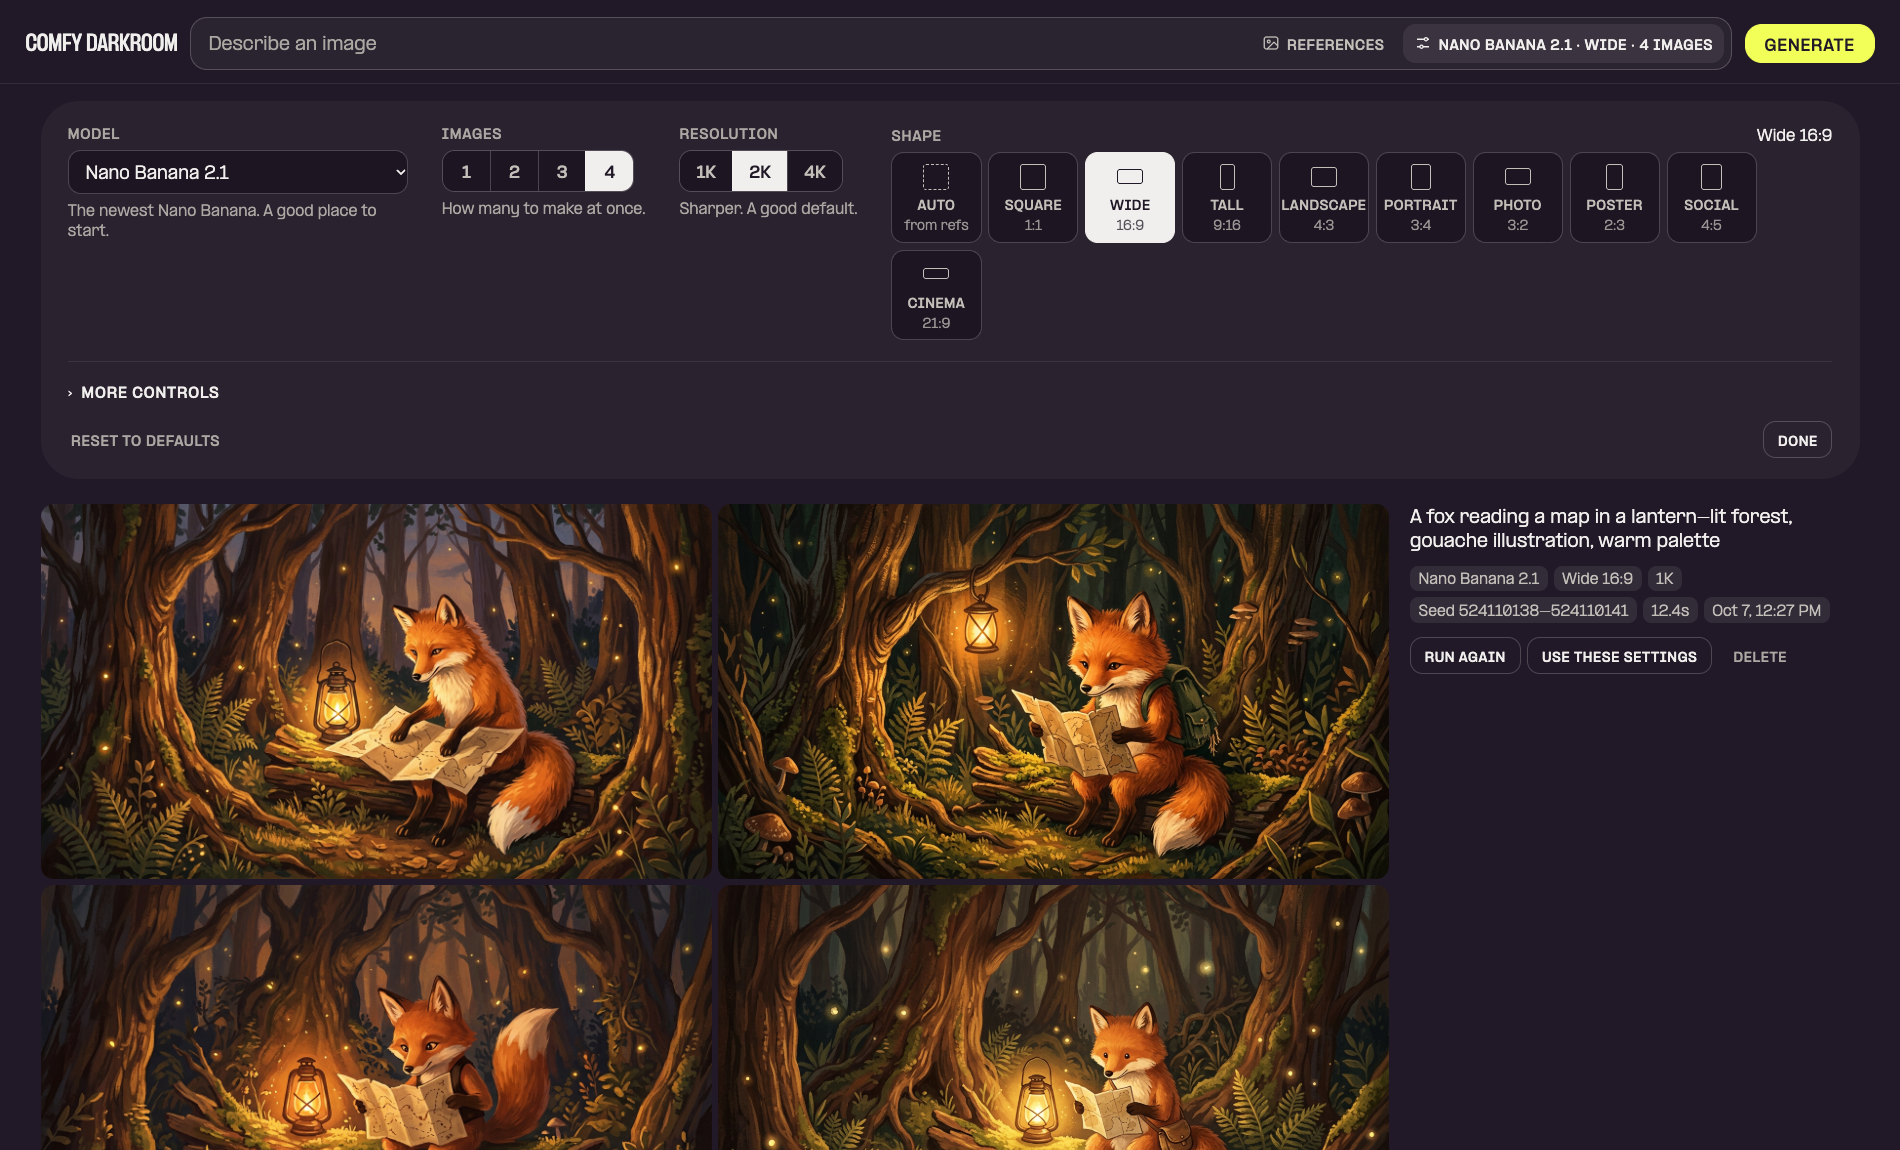
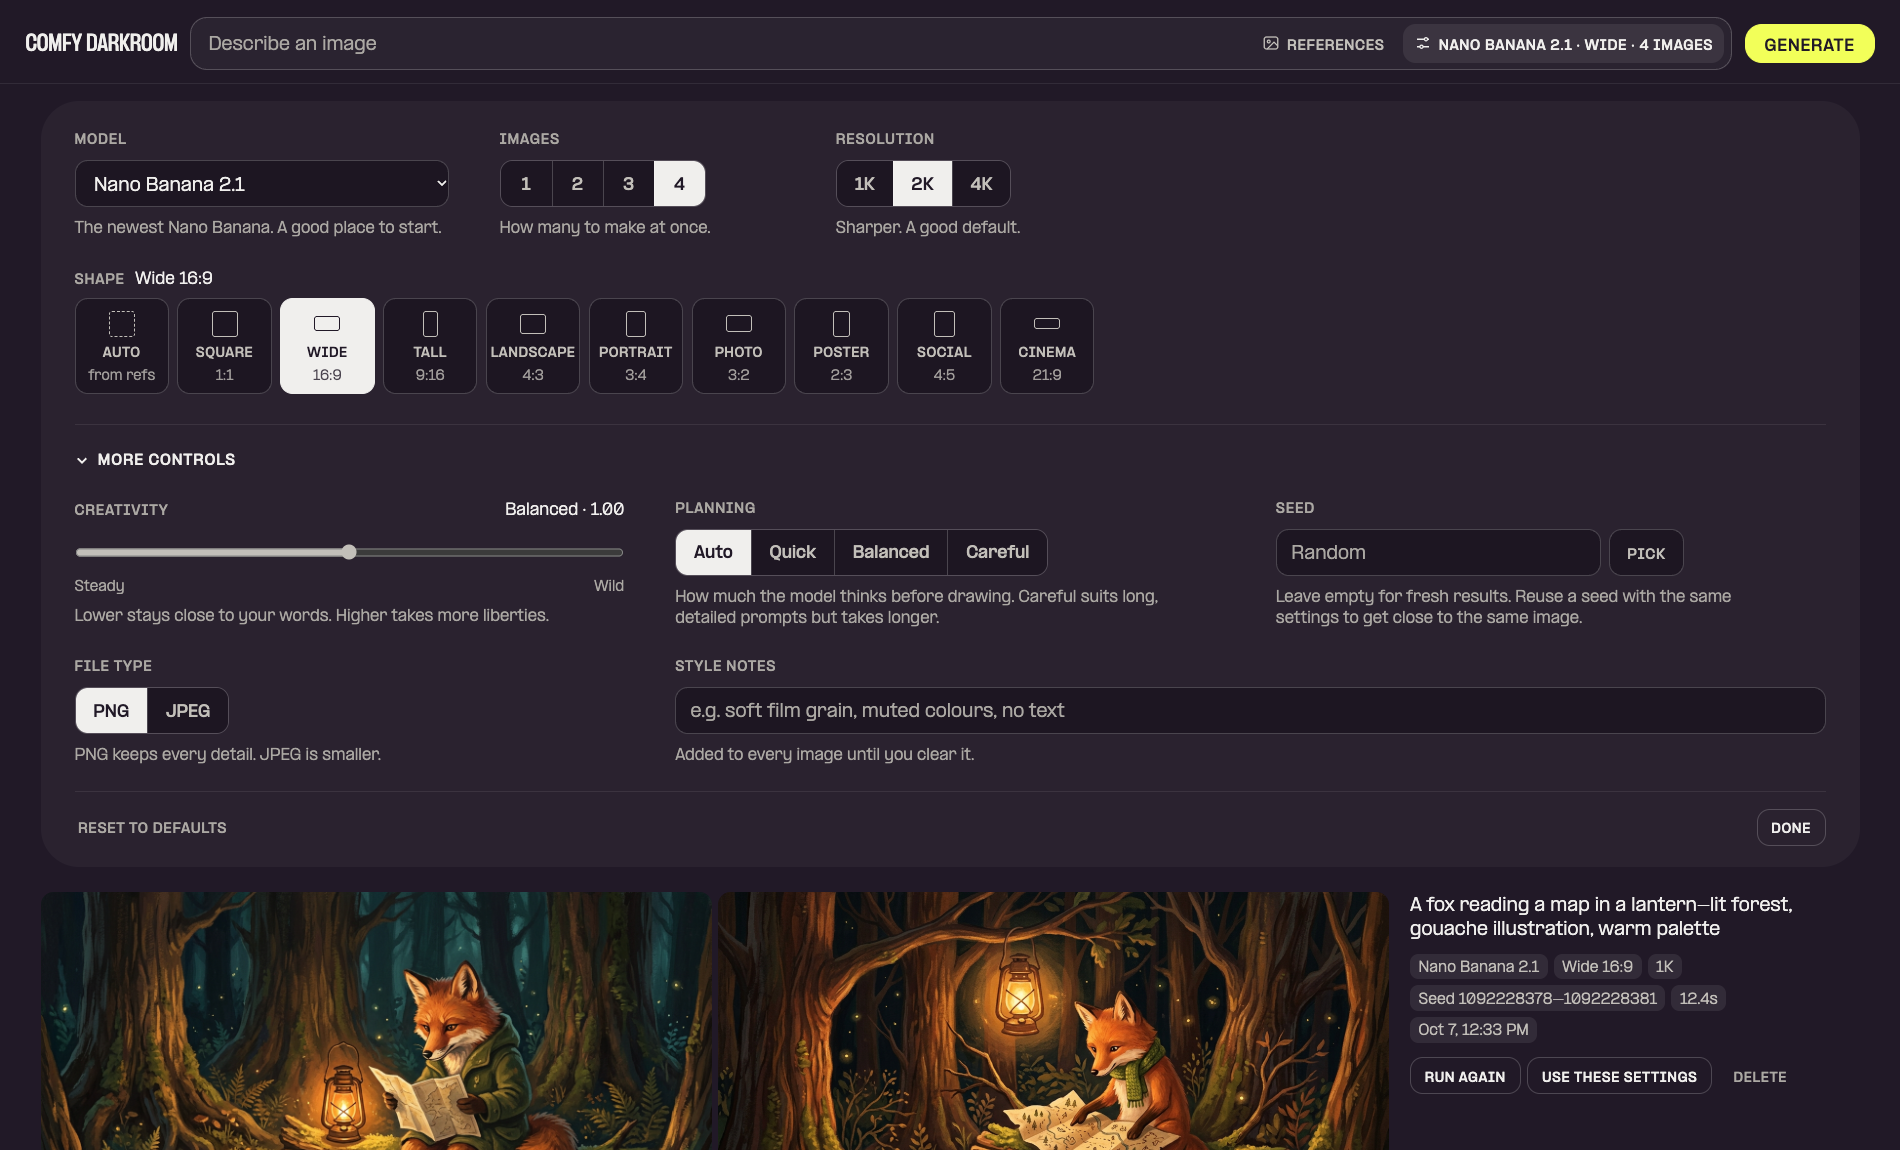
Settings panel spacing, responsive layout, screenshot script (#2)
- Panel uses two grids: Model / Images / Resolution, then full-width Shape;
  More controls is an even 3-column grid
- One control height (2.75rem), one label line, consistent hint spacing
- All ten shapes on one line on desktop, 5x2 on tablet, a swipe row on phone
- Style notes is a single-line field (placeholder was clipped)
- Phone: full-width segmented controls, prompt on its own line
- scripts/screenshots.mjs regenerates docs/*.png; README explains how

diff --git a/index.html b/index.html
@@ -54,47 +54,62 @@ body.drag::after { content:"Drop to add as reference images"; position:fixed; in
 /* ---------- settings panel ---------- */
 .panel { max-width:110rem; margin:1rem auto 0; padding:0 1.5rem; display:none; }
 .panel.open { display:block; }
-.panel-in { background:var(--t4); border-radius:2.25rem; padding:1.4rem 1.6rem 1.2rem; }
-.fields { display:flex; flex-wrap:wrap; gap:1.25rem 2rem; align-items:flex-start; }
+.panel-in { background:var(--t4); border-radius:2.25rem; padding:1.75rem 2rem 1.25rem; }
+/* One grid per section so labels, controls and hints line up across columns. */
+.basics { display:grid; grid-template-columns:minmax(16rem,22rem) auto auto; justify-content:start; gap:1.75rem 3rem; align-items:start; }
+.basics .f-shape { grid-column:1 / -1; }
+.adv { display:grid; grid-template-columns:repeat(3, minmax(0, 1fr)); gap:1.75rem 3rem; align-items:start; margin-top:1.5rem; }
+.adv .f-notes { grid-column:span 2; }
+@media (max-width:1100px){ .basics { grid-template-columns:1fr 1fr; } .basics .f-model { grid-column:1 / -1; } .adv { grid-template-columns:1fr 1fr; } .adv .f-notes { grid-column:1 / -1; } }
 .field { min-width:0; }
-.field.f-model { flex:1 1 240px; max-width:340px; }
-.field.f-shape { flex:3 1 460px; }
-.field.f-wide { flex:2 1 320px; }
-.field.f-narrow { flex:1 1 200px; }
-label.k, .k { display:flex; justify-content:space-between; align-items:baseline; gap:.5rem; font-size:.75rem; font-weight:700; text-transform:uppercase; letter-spacing:.06em; color:var(--muted); margin-bottom:.45rem; }
-.k .val { color:var(--warm-white); font-weight:400; letter-spacing:0; text-transform:none; font-size:.85rem; }
-.help { font-size:.82rem; font-weight:400; color:var(--muted); line-height:1.4; margin-top:.45rem; max-width:34rem; }
-select,input[type=number],input[type=text],textarea.in { width:100%; background:var(--ink-soft); color:var(--warm-white); border:1px solid var(--t20); border-radius:.75rem; font:inherit; font-weight:400; font-size:.95rem; padding:.55rem .75rem; outline:none; }
-textarea.in { resize:vertical; min-height:2.6rem; line-height:1.4; }
-select:focus,input:focus,textarea.in:focus { border-color:var(--canvas); }
-input::placeholder,textarea.in::placeholder { color:var(--muted); }
+label.k, .k { display:flex; align-items:baseline; gap:.6rem; height:1.15rem; line-height:1.15rem; font-size:.75rem; font-weight:700; text-transform:uppercase; letter-spacing:.06em; color:var(--muted); margin-bottom:.6rem; }
+.k.split { justify-content:space-between; }
+.k .val { color:var(--warm-white); font-weight:400; letter-spacing:0; text-transform:none; font-size:.875rem; line-height:1.15rem; }
+.help { font-size:.85rem; font-weight:400; color:var(--muted); line-height:1.45; margin-top:.6rem; max-width:30rem; }
+select,input[type=number],input[type=text] { width:100%; height:2.75rem; background:var(--ink-soft); color:var(--warm-white); border:1px solid var(--t20); border-radius:.75rem; font:inherit; font-weight:400; font-size:1rem; padding:0 .85rem; outline:none; }
+select:focus,input:focus { border-color:var(--canvas); }
+input::placeholder { color:var(--muted); }
 .seg { display:inline-flex; border:1px solid var(--t20); border-radius:.75rem; overflow:hidden; }
-.seg button { background:var(--ink-soft); color:var(--canvas); border:0; padding:.55rem .95rem; cursor:pointer; font-weight:700; font-size:.875rem; min-width:2.8rem; }
+.seg button { height:calc(2.75rem - 2px); background:var(--ink-soft); color:var(--canvas); border:0; padding:0 1.05rem; cursor:pointer; font-weight:700; font-size:.9rem; min-width:3rem; }
 .seg button + button { border-left:1px solid var(--t20); }
 .seg button:hover:not(.on):not(:disabled) { background:var(--t8); color:var(--warm-white); }
 .seg button.on { background:var(--warm-white); color:var(--ink); }
 .seg button:disabled { opacity:.4; cursor:not-allowed; }
-.shapes { display:flex; flex-wrap:wrap; gap:.4rem; }
-.shape { display:flex; flex-direction:column; align-items:center; justify-content:flex-end; gap:.35rem; width:5.3rem; padding:.55rem .3rem .45rem; background:var(--ink-soft); border:1px solid var(--t20); border-radius:.75rem; color:var(--canvas); cursor:pointer; }
+/* Ten shapes on one line on desktop (10 x 5.4rem + gaps = 58.5rem); wraps evenly below that. */
+.shapes { display:grid; grid-template-columns:repeat(auto-fill, minmax(5.4rem, 1fr)); gap:.5rem; max-width:60rem; }
+.shape { display:flex; flex-direction:column; align-items:center; justify-content:flex-end; gap:.3rem; padding:.65rem .3rem .55rem; background:var(--ink-soft); border:1px solid var(--t20); border-radius:.75rem; color:var(--canvas); cursor:pointer; }
 .shape:hover:not(.on) { background:var(--t8); color:var(--warm-white); }
 .shape.on { background:var(--warm-white); color:var(--ink); border-color:var(--warm-white); }
 .shape .box { height:28px; display:flex; align-items:center; justify-content:center; }
 .shape i { display:block; border:1.5px solid currentColor; border-radius:3px; }
 .shape i.auto { border-style:dashed; }
-.shape .n { font-size:.72rem; font-weight:700; text-transform:uppercase; letter-spacing:.04em; }
-.shape .r { font-size:.72rem; font-weight:400; opacity:.75; margin-top:-.25rem; }
-.range { width:100%; accent-color:var(--canvas); margin:.2rem 0 0; }
-.ends { display:flex; justify-content:space-between; font-size:.75rem; font-weight:400; color:var(--muted); }
-.seedrow { display:flex; gap:.4rem; }
-.seedrow input { flex:1; }
-.more { margin-top:1.25rem; border-top:1px solid var(--t8); padding-top:1rem; }
-.more summary { list-style:none; cursor:pointer; display:inline-flex; align-items:center; gap:.5rem; font-size:.8rem; font-weight:700; text-transform:uppercase; letter-spacing:.06em; color:var(--warm-white); }
+.shape .n { font-size:.72rem; font-weight:700; text-transform:uppercase; letter-spacing:.04em; white-space:nowrap; }
+.shape .r { font-size:.75rem; font-weight:400; opacity:.8; }
+.range { width:100%; height:2.75rem; margin:0; accent-color:var(--canvas); }
+.ends { display:flex; justify-content:space-between; font-size:.78rem; font-weight:400; color:var(--muted); margin-top:-.35rem; }
+.seedrow { display:flex; gap:.5rem; max-width:24rem; }
+.seedrow input { flex:1; min-width:0; }
+.sidebtn { height:2.75rem; flex:none; padding:0 1rem; background:var(--ink-soft); border:1px solid var(--t20); border-radius:.75rem; color:var(--canvas); font-size:.75rem; font-weight:700; text-transform:uppercase; letter-spacing:.05em; cursor:pointer; }
+.sidebtn:hover { background:var(--t8); color:var(--warm-white); }
+.more { margin-top:1.75rem; border-top:1px solid var(--t8); padding-top:1.25rem; }
+.more summary { list-style:none; cursor:pointer; display:inline-flex; align-items:center; gap:.55rem; font-size:.8rem; font-weight:700; text-transform:uppercase; letter-spacing:.06em; color:var(--warm-white); padding:.25rem 0; }
 .more summary::-webkit-details-marker { display:none; }
-.more summary .chev { transition:transform .15s; display:inline-block; }
-.more[open] summary .chev { transform:rotate(90deg); }
-.more summary .sub { color:var(--muted); font-weight:400; letter-spacing:0; text-transform:none; font-size:.85rem; }
-.more .fields { margin-top:1.1rem; }
-.panel-foot { display:flex; justify-content:space-between; align-items:center; margin-top:1rem; }
+.more summary svg { width:14px; height:14px; transition:transform .15s; }
+.more[open] summary svg { transform:rotate(90deg); }
+.more summary .sub { color:var(--muted); font-weight:400; letter-spacing:0; text-transform:none; font-size:.875rem; }
+.panel-foot { display:flex; justify-content:space-between; align-items:center; margin-top:1.5rem; padding-top:1rem; border-top:1px solid var(--t8); }
+
+/* responsive panel overrides: keep after the base rules above */
+@media (max-width:1100px){ .shapes { grid-template-columns:repeat(5, minmax(0, 1fr)); max-width:34rem; } }
+@media (max-width:640px){
+  .basics, .adv { grid-template-columns:1fr; } .panel-in { padding:1.25rem 1.1rem 1rem; border-radius:1.5rem; }
+  .seg { display:flex; width:100%; } .seg button { flex:1; min-width:0; padding:0 .4rem; }
+  /* one swipeable row of shapes instead of four ragged rows */
+  .shapes { display:flex; overflow-x:auto; scroll-snap-type:x proximity; max-width:none; margin:0 -1.1rem; padding:0 1.1rem .25rem; scrollbar-width:none; }
+  .shapes::-webkit-scrollbar { display:none; }
+  .shape { flex:none; width:5.4rem; scroll-snap-align:start; }
+  .bar { flex-wrap:wrap; } .prompt { flex:1 1 100%; } .go { flex:1 1 100%; }
+}
 
 /* ---------- feed ---------- */
 .feed { max-width:110rem; margin:0 auto; padding:1.5rem; display:flex; flex-direction:column; gap:2.25rem; }
@@ -203,7 +218,7 @@ kbd { font-family:inherit; font-size:.78rem; font-weight:700; color:var(--warm-w
 
 <div class="panel" id="panel">
   <div class="panel-in">
-    <div class="fields">
+    <div class="basics">
       <div class="field f-model">
         <label class="k" for="model">Model</label>
         <select id="model"></select>
@@ -226,24 +241,24 @@ kbd { font-family:inherit; font-size:.78rem; font-weight:700; color:var(--warm-w
     </div>
 
     <details class="more" id="more">
-      <summary><span class="chev">›</span> More controls <span class="sub" id="more-sub"></span></summary>
-      <div class="fields">
-        <div class="field f-wide">
-          <label class="k" for="temp">Creativity <span class="val" id="temp-val"></span></label>
+      <summary><svg viewBox="0 0 16 16" fill="none" stroke="currentColor" stroke-width="2"><path d="M6 3l5 5-5 5"/></svg>More controls <span class="sub" id="more-sub"></span></summary>
+      <div class="adv">
+        <div class="field">
+          <label class="k split" for="temp">Creativity <span class="val" id="temp-val"></span></label>
           <input class="range" type="range" id="temp" min="0" max="2" step="0.05" value="1">
           <div class="ends"><span>Steady</span><span>Wild</span></div>
           <div class="help">Lower stays close to your words. Higher takes more liberties.</div>
         </div>
-        <div class="field f-wide">
+        <div class="field">
           <div class="k">Planning</div>
           <div class="seg" id="think"></div>
-          <div class="help">How much the model thinks before drawing. Careful handles long, detailed prompts better but takes longer.</div>
+          <div class="help">How much the model thinks before drawing. Careful suits long, detailed prompts but takes longer.</div>
         </div>
-        <div class="field f-narrow">
+        <div class="field">
           <label class="k" for="seed">Seed</label>
           <div class="seedrow">
             <input type="number" id="seed" placeholder="Random" min="0">
-            <button class="btn quiet" id="seed-new" title="Pick a random seed"><span class="tc">Pick</span></button>
+            <button class="sidebtn" id="seed-new" title="Pick a random seed"><span class="tc">Pick</span></button>
           </div>
           <div class="help">Leave empty for fresh results. Reuse a seed with the same settings to get close to the same image.</div>
         </div>
@@ -252,10 +267,10 @@ kbd { font-family:inherit; font-size:.78rem; font-weight:700; color:var(--warm-w
           <div class="seg" id="fmt"></div>
           <div class="help">PNG keeps every detail. JPEG is smaller.</div>
         </div>
-        <div class="field f-wide">
+        <div class="field f-notes">
           <label class="k" for="sys">Style notes</label>
-          <textarea class="in" id="sys" rows="1" placeholder="e.g. soft film grain, muted colours, no text"></textarea>
-          <div class="help">Applied to every image until you clear it.</div>
+          <input type="text" id="sys" placeholder="e.g. soft film grain, muted colours, no text">
+          <div class="help">Added to every image until you clear it.</div>
         </div>
       </div>
     </details>

diff --git a/README.md b/README.md
@@ -52,6 +52,18 @@ The labels are friendlier than the API. This is what each one sets on the Router
 | File type | `imageConfig.imageOutputOptions.mimeType` |
 | Style notes | `systemInstruction` |
 
+## Updating the screenshots
+
+The images in `docs/` come from `scripts/screenshots.mjs`. Retake them with any UI change:
+
+```sh
+npm i --no-save puppeteer-core     # once
+python3 server.py &                # needs a working key
+node scripts/screenshots.mjs       # makes one 4-image run at 1K
+```
+
+Set `CHROME` if Chrome isn't at the default macOS path.
+
 ## Notes
 
 - Planning level `LOW` is not offered: Router rejects it for Nano Banana 2.1.
